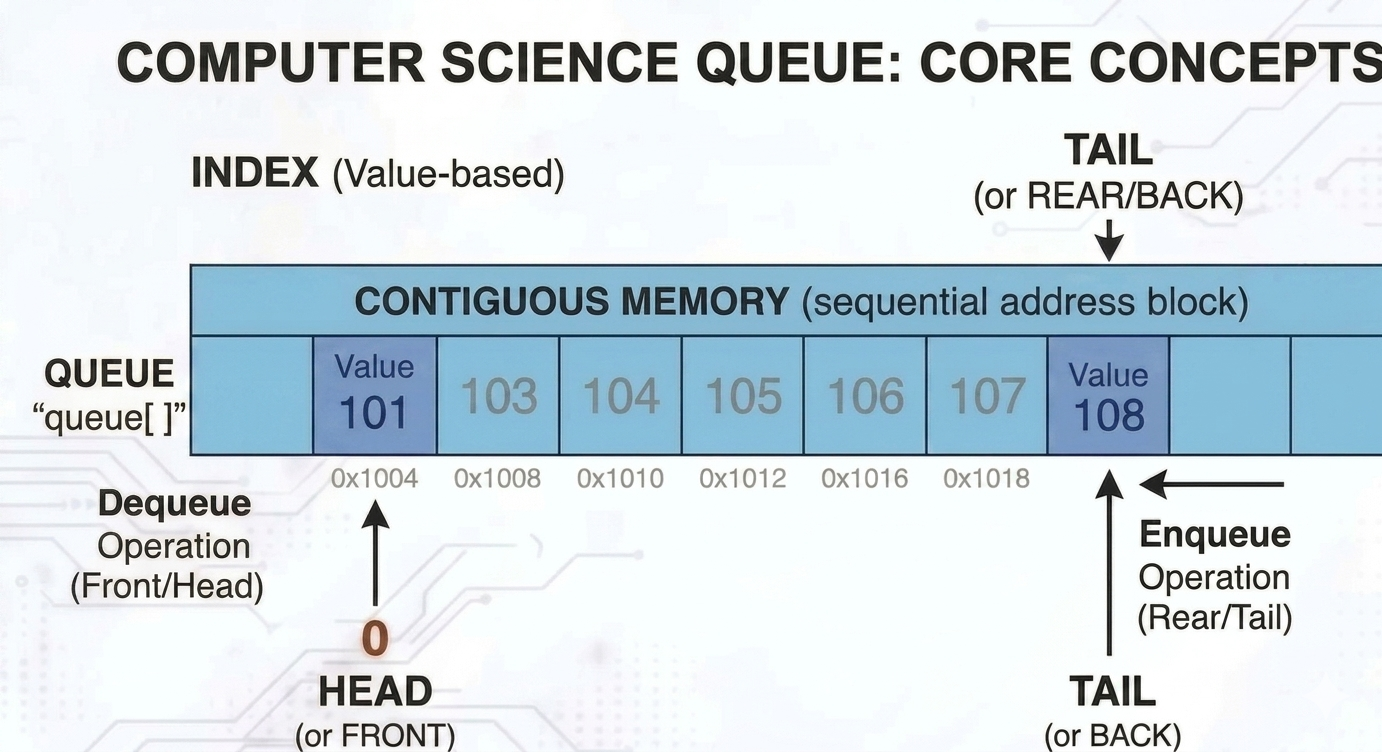
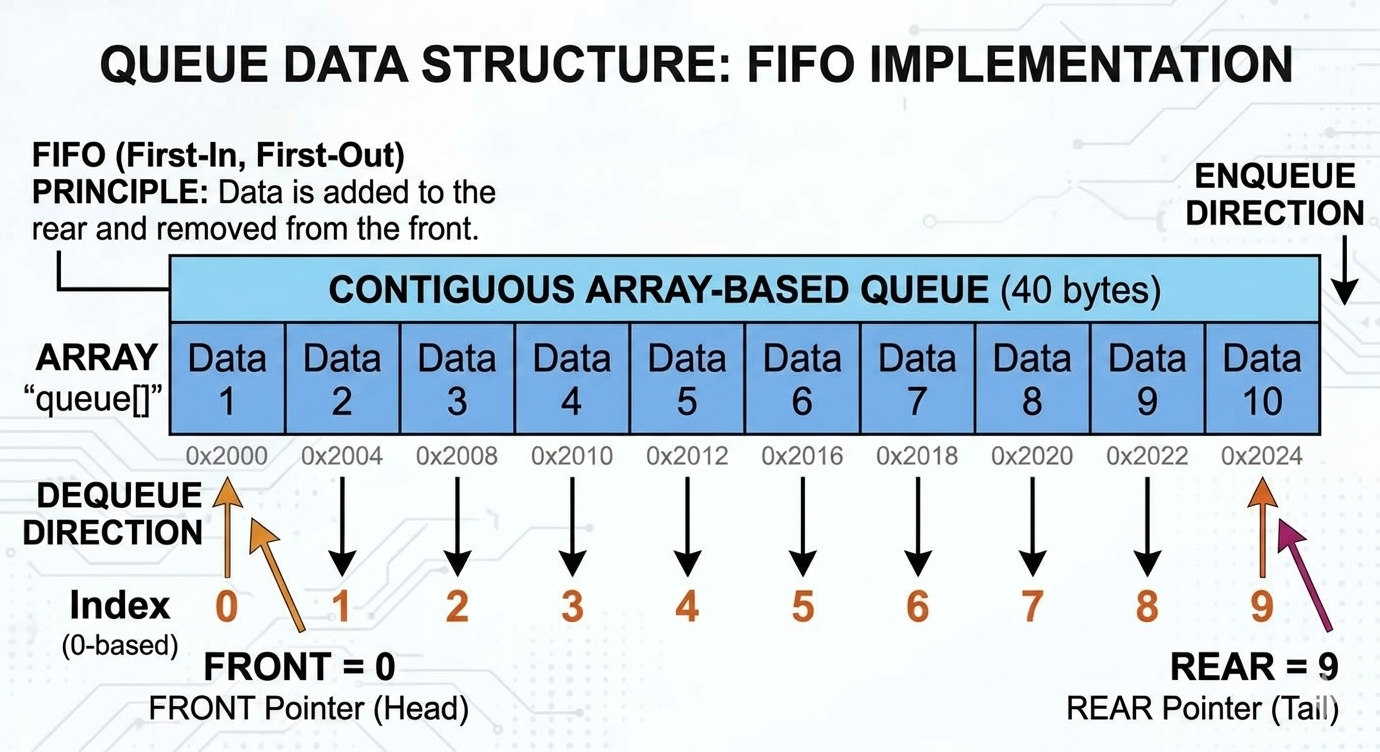
Complete Data Structures Article and refactor code overall

diff --git a/app/components/aboutMeContents/aboutMeContents.tsx b/app/components/aboutMeContents/aboutMeContents.tsx
@@ -1,10 +1,10 @@
 import Image from 'next/image'
+import Link from 'next/link';
 import awsLogo from "../../assets/aws_logo.jpeg";
 import nodejsLogo from "../../assets/nodejs_logo.png";
 import githubLogo from "../../assets/github_logo.jpg";
 import nextjsLogo from "../../assets/nextjs_logo.png";
 import styles from "./aboutMeContents.module.css";
-
 
 const AboutMeContents = () => {
     return (
@@ -47,8 +47,18 @@ const AboutMeContents = () => {
                     />
                 </div>
             </div>
-            <div className={styles.aboutMeText}>I am a software developer with 7+ years of experience. I have worked in full-stack development positions across 3 companies, building RESTful API services using Spring Boot and NodeJS connected to MongoDB and DynamoDB databases and front end web interfaces using React and Next. I built this website using Next Typescript and it is hosted on AWS using AWS Amplify.</div>
-            <div className={styles.aboutMeText}>In my free time, I enjoy learning about new concepts in technical areas like Artificial Intelligence and leveraging new insights to build scalable solutions. I have documented a few key ideas from my learning in the <em>Compendium</em> tab. I have built applications using OpenAI API SDK, LangGraph, and Pydantic AI. Try out live demonstrations of some of my applications in the <em>Projects</em> tab.</div>
+            <div className={styles.aboutMeText}>
+                <div>I am a software developer with 7+ years of experience. I have worked in full-stack development positions across 3 companies, building RESTful API services using Spring Boot and NodeJS connected to MongoDB and DynamoDB databases and front end web interfaces using React and Next. I built this website using Next Typescript and hosted it on AWS using AWS Amplify.</div>
+                <br />
+                <div>Check out the <Link className="text-white-500 hover:text-gray-500" href="/compendium"><em className={styles.tabText}>Compendium</em></Link> tab for educational articles I've put together.</div>
+                <div>Check out the <Link className="text-white-500 hover:text-gray-500" href="/projects"><em className={styles.tabText}>Projects</em></Link> tab to interact with live demos of my projects.</div>
+                <div>Check out the <Link className="text-white-500 hover:text-gray-500" href="/connect"><em className={styles.tabText}>Connect</em></Link> tab to:</div>
+                <ul className="list-disc pl-10">
+                    <li>view the source code of my projects on GitHub</li>
+                    <li>add me on LinkedIn</li>
+                    <li>send me an email</li>
+                </ul>
+            </div>
         </>
     );
 }

diff --git a/app/compendium/[slug]/page.tsx b/app/compendium/[slug]/page.tsx
@@ -1,6 +1,5 @@
 import MyWebsiteNavBar from '@/app/components/navBar/navBar';
 import dynamic from 'next/dynamic';
-import { notFound } from 'next/navigation';
 import { ComponentType } from 'react';
 import styles from './page.module.css';
 import Link from 'next/link';
@@ -15,7 +14,6 @@ interface PageProps {
 export default async function BlogPostPage({ params }: PageProps) {
   const { slug } = await params;
 
-  // Dynamically import the MDX file based on the slug URL parameter
   const MdxPost: ComponentType = dynamic(
     () => import(`../../../compendiumDocuments/${slug}.mdx`)
   );

diff --git a/app/components/aboutMeContents/aboutMeContents.module.css b/app/components/aboutMeContents/aboutMeContents.module.css
@@ -5,8 +5,13 @@
 .aboutMeText {
     font-family: 'Google Sans Flex';
     align-self: center;
-    font-size: 20px;
+    font-size: 18px;
     padding-top: 25px;
     overflow-wrap: break-word;
-    max-width: 60%;
+    max-width: 57%;
+}
+
+.tabText {
+    margin-left: 5px;
+    margin-right: 5px;
 }

diff --git a/app/components/clickableCard/clickableCard.tsx b/app/components/clickableCard/clickableCard.tsx
@@ -9,7 +9,6 @@ interface ClickableCardProps {
     url: string,
 }
 
-
 const ClickableCard = ({image, text, url}: ClickableCardProps) => {
     return (
         <Link href={url} target="_blank" rel="noopener noreferrer" className="group relative block w-80 h-48 overflow-hidden rounded-xl p-4">

diff --git a/app/components/compendiumContents/compendiumHelpers.tsx b/app/components/compendiumContents/compendiumHelpers.tsx
@@ -11,7 +11,6 @@ export function getAllPosts() {
     const slug = fileName.replace('.mdx', '');
     const fileContent = fs.readFileSync(path.join(contentPath, fileName), 'utf8');
     
-    // Parse frontmatter metadata
     const { data, content } = matter(fileContent);
     
     return {

diff --git a/app/components/compendiumContents/compendiumMainPage.tsx b/app/components/compendiumContents/compendiumMainPage.tsx
@@ -1,6 +1,5 @@
 import { getAllPosts } from "./compendiumHelpers";
 import Link from 'next/link';
-import styles from './compendiumContents.module.css';
 
 const CompendiumMainPage = () => {
     const posts = getAllPosts();
